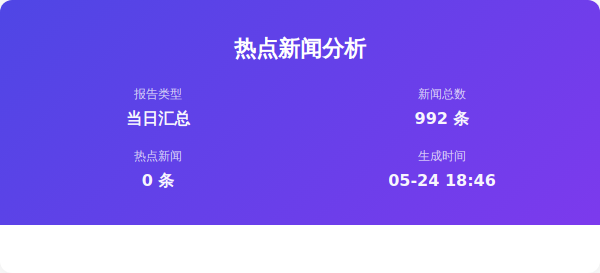
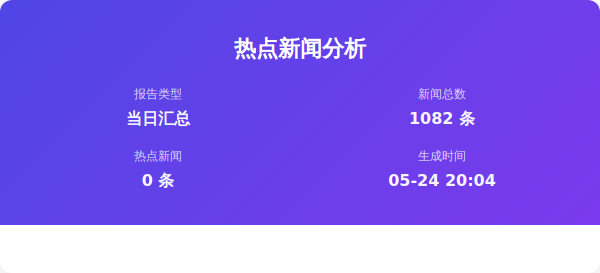
Auto update by GitHub Actions at Sun May 24 20:04:55 CST 2026

Changed region(s): [[0.66, 0.4103, 0.81, 0.4689], [0.72, 0.6447, 0.84, 0.674]]

diff --git a/output/2026年05月24日/html/当日汇总.html b/output/2026年05月24日/html/当日汇总.html
@@ -357,7 +357,7 @@
                     </div>
                     <div class="info-item">
                         <span class="info-label">新闻总数</span>
-                        <span class="info-value">992 条</span>
+                        <span class="info-value">1082 条</span>
                     </div>
                     <div class="info-item">
                         <span class="info-label">热点新闻</span>
@@ -365,7 +365,7 @@
                     </div>
                     <div class="info-item">
                         <span class="info-label">生成时间</span>
-                        <span class="info-value">05-24 18:46</span>
+                        <span class="info-value">05-24 20:04</span>
                     </div>
                 </div>
             </div>